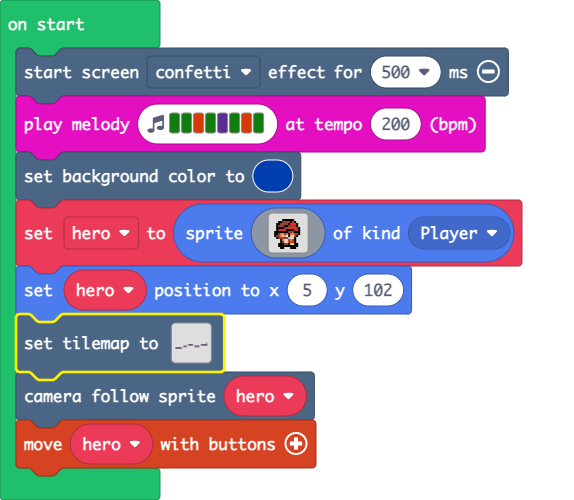
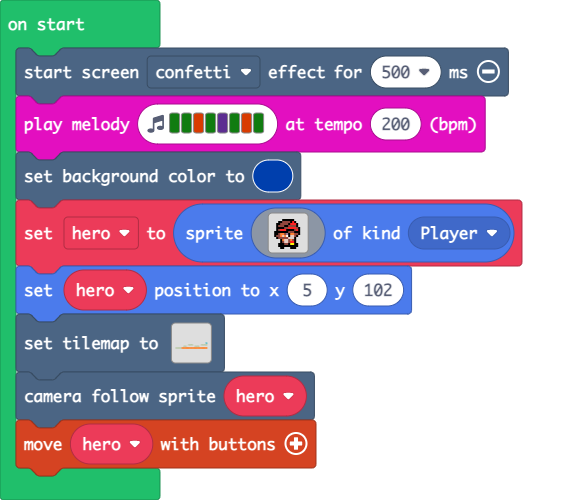
added lava

Changed region(s): [[0.0592, 0.63, 0.4146, 0.78], [0.1185, 0.6, 0.385, 0.63], [0.0, 0.6, 0.1185, 0.75]]

diff --git a/main.ts b/main.ts
@@ -20,7 +20,7 @@ let hero = sprites.create(img`
     . . . . f f . . . f f f . . . . 
     `, SpriteKind.Player)
 hero.setPosition(5, 102)
-tiles.setTilemap(tiles.createTilemap(hex`1400080000000000000000000000000000000000000000000000000000000000000000000000000000000000000000000000000000000000000000000000000000000000000000000000000000000000000000000000000000000000000000000000000000000002000000000000000001010100000000000101010100000000000101000000000001010100000000000101010100000000000000000000000000000000`, img`
+tiles.setTilemap(tiles.createTilemap(hex`1400080000000000000000000000000000000000000000000000000000000000000000000000000000000000000000000000000000000000000000000000000000000000000000000000000000000000000000000000000000000000000000000000000000000001000000000000000003030300000000000303030300000000000303000000000003030300000000000303030302020202020202020202020202020202`, img`
     . . . . . . . . . . . . . . . . . . . . 
     . . . . . . . . . . . . . . . . . . . . 
     . . . . . . . . . . . . . . . . . . . . 
@@ -29,6 +29,6 @@ tiles.setTilemap(tiles.createTilemap(hex`140008000000000000000000000000000000000
     . . . . . . . . 2 2 2 . . . . . 2 2 2 2 
     . . . . . 2 2 . . . . . 2 2 2 . . . . . 
     2 2 2 2 . . . . . . . . . . . . . . . . 
-    `, [myTiles.transparency16,sprites.dungeon.darkGroundNorthWest0,sprites.dungeon.collectibleInsignia], TileScale.Sixteen))
+    `, [myTiles.transparency16,sprites.dungeon.collectibleInsignia,sprites.dungeon.hazardLava0,sprites.castle.tilePath1], TileScale.Sixteen))
 scene.cameraFollowSprite(hero)
 controller.moveSprite(hero)

diff --git a/tilemap.g.ts b/tilemap.g.ts
@@ -4,6 +4,12 @@ namespace myTiles {
     export const transparency16 = image.ofBuffer(hex``);
     //% fixedInstance jres blockIdentity=images._tile
     export const tile1 = image.ofBuffer(hex``);
+    //% fixedInstance jres blockIdentity=images._tile
+    export const tile2 = image.ofBuffer(hex``);
+    //% fixedInstance jres blockIdentity=images._tile
+    export const tile3 = image.ofBuffer(hex``);
+    //% fixedInstance jres blockIdentity=images._tile
+    export const tile4 = image.ofBuffer(hex``);
 
 }
 // Auto-generated code. Do not edit.
